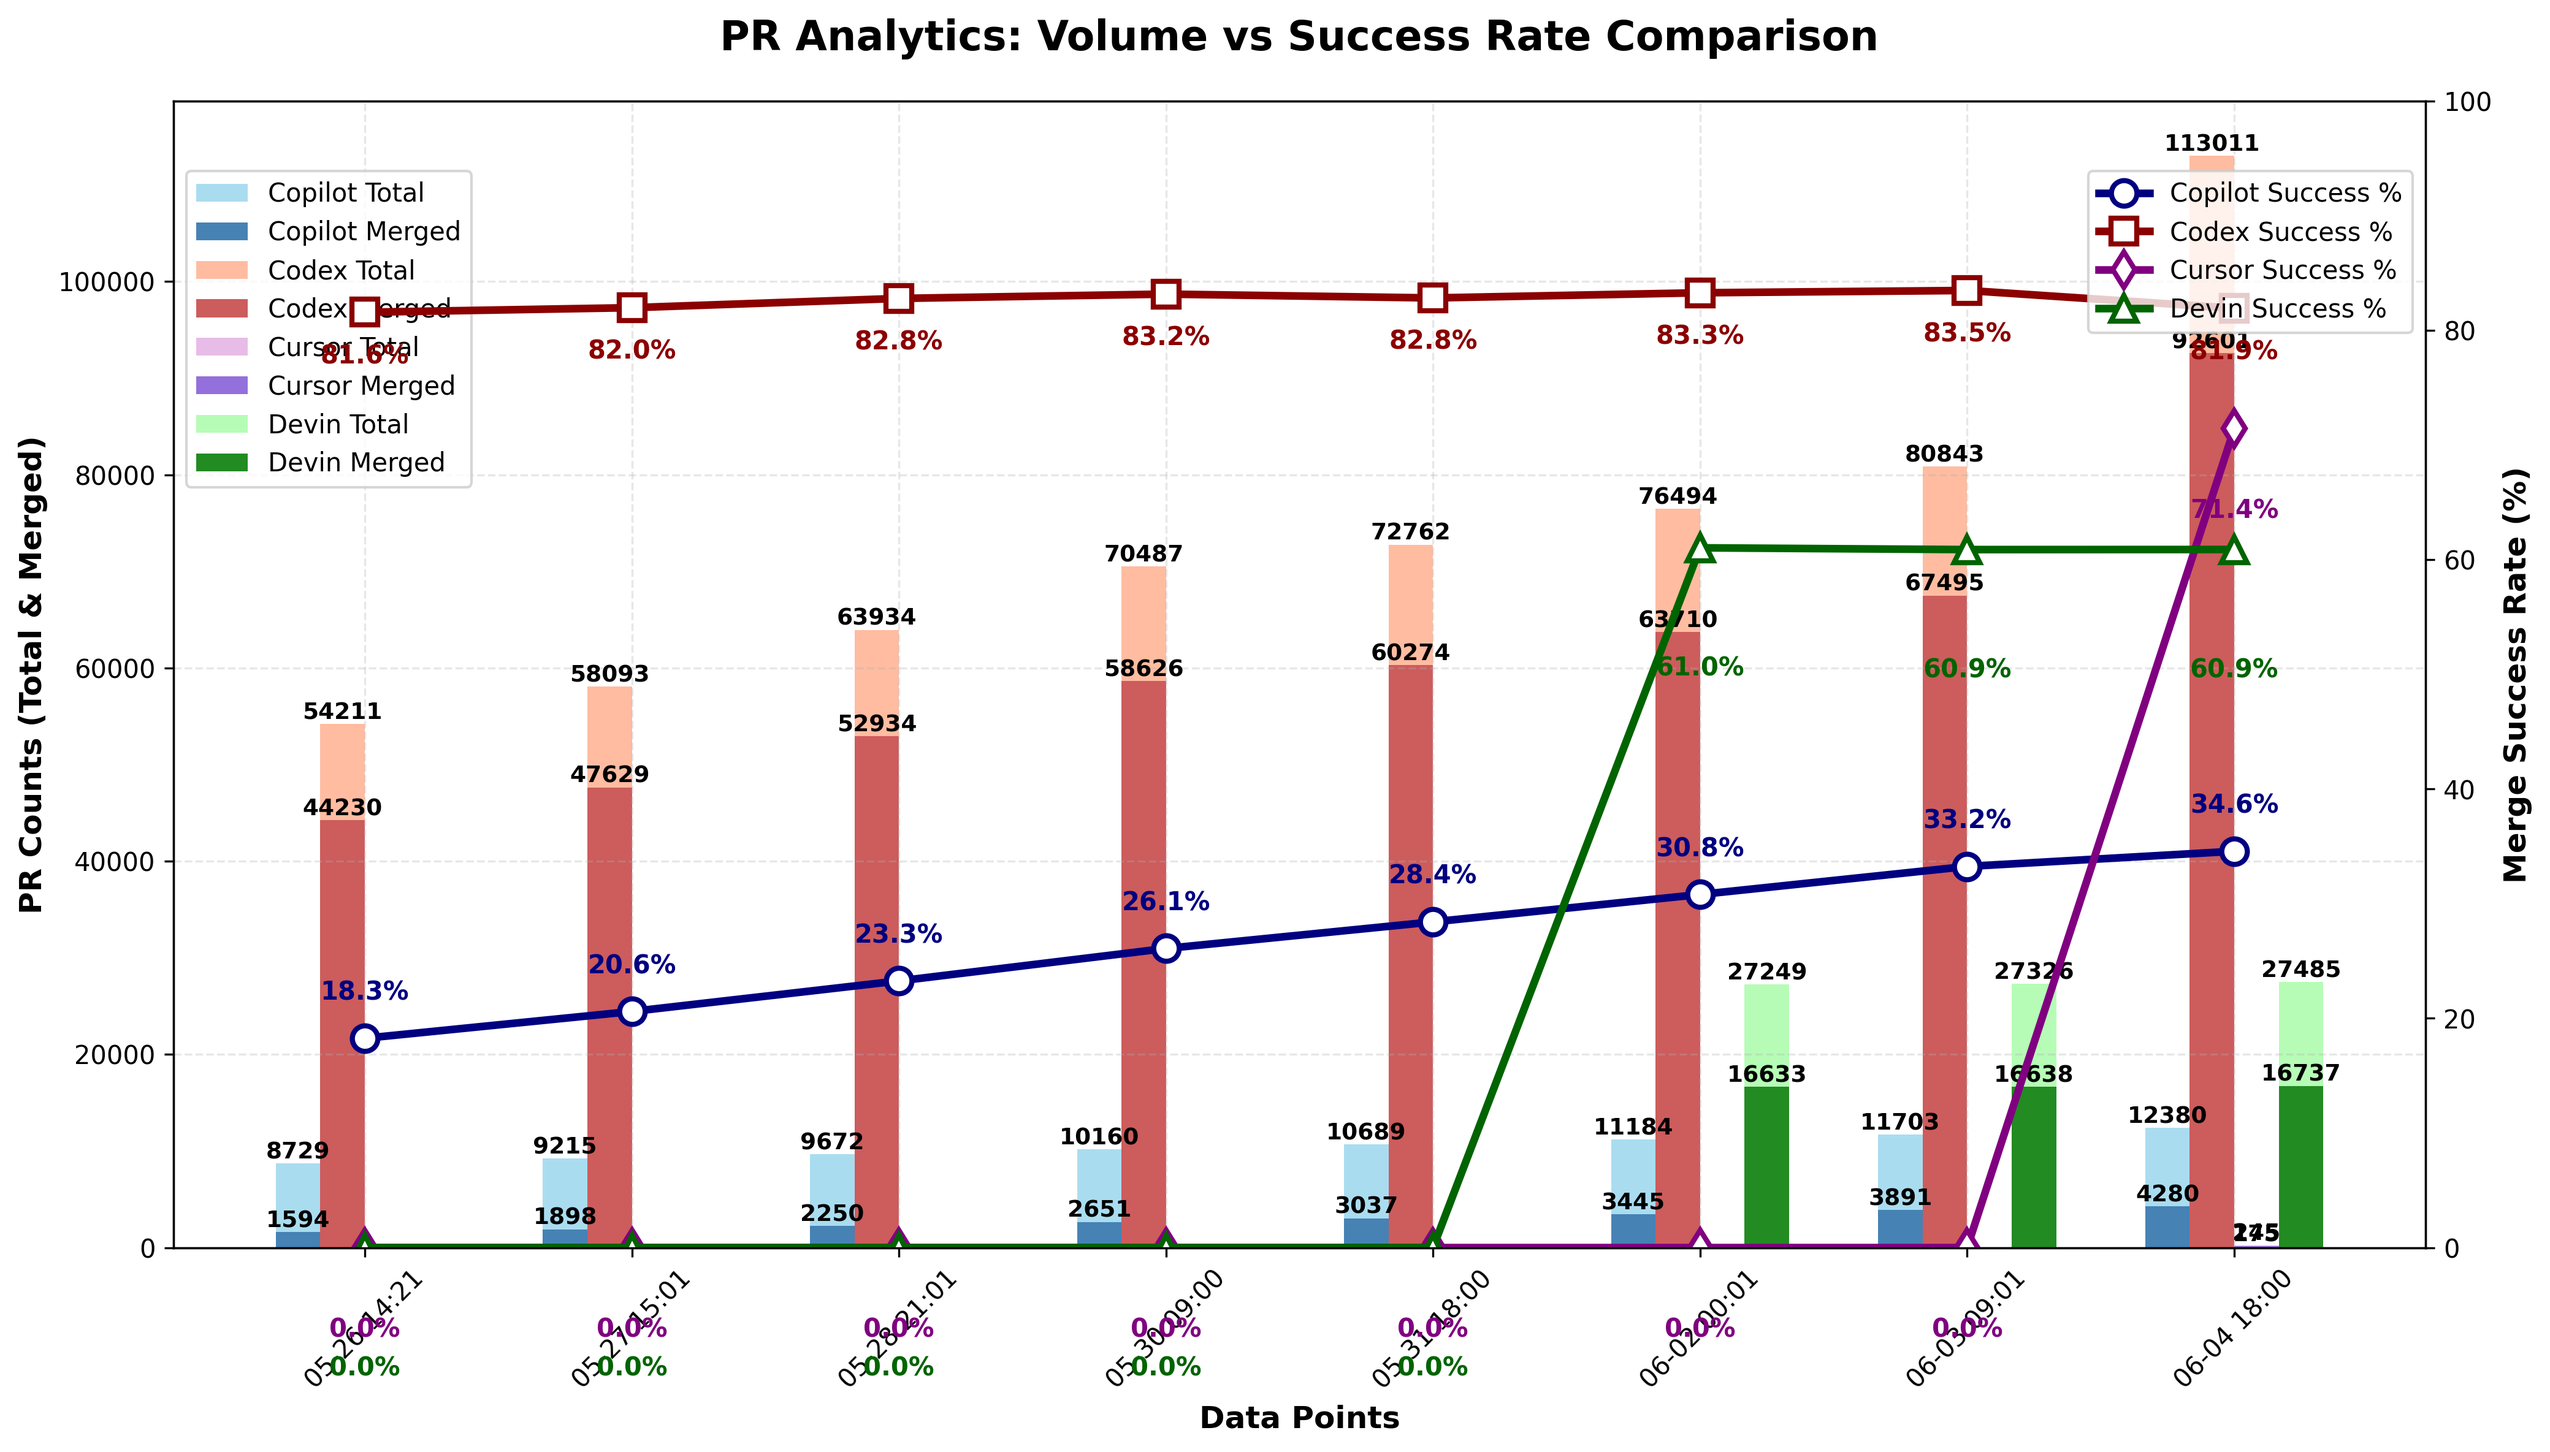
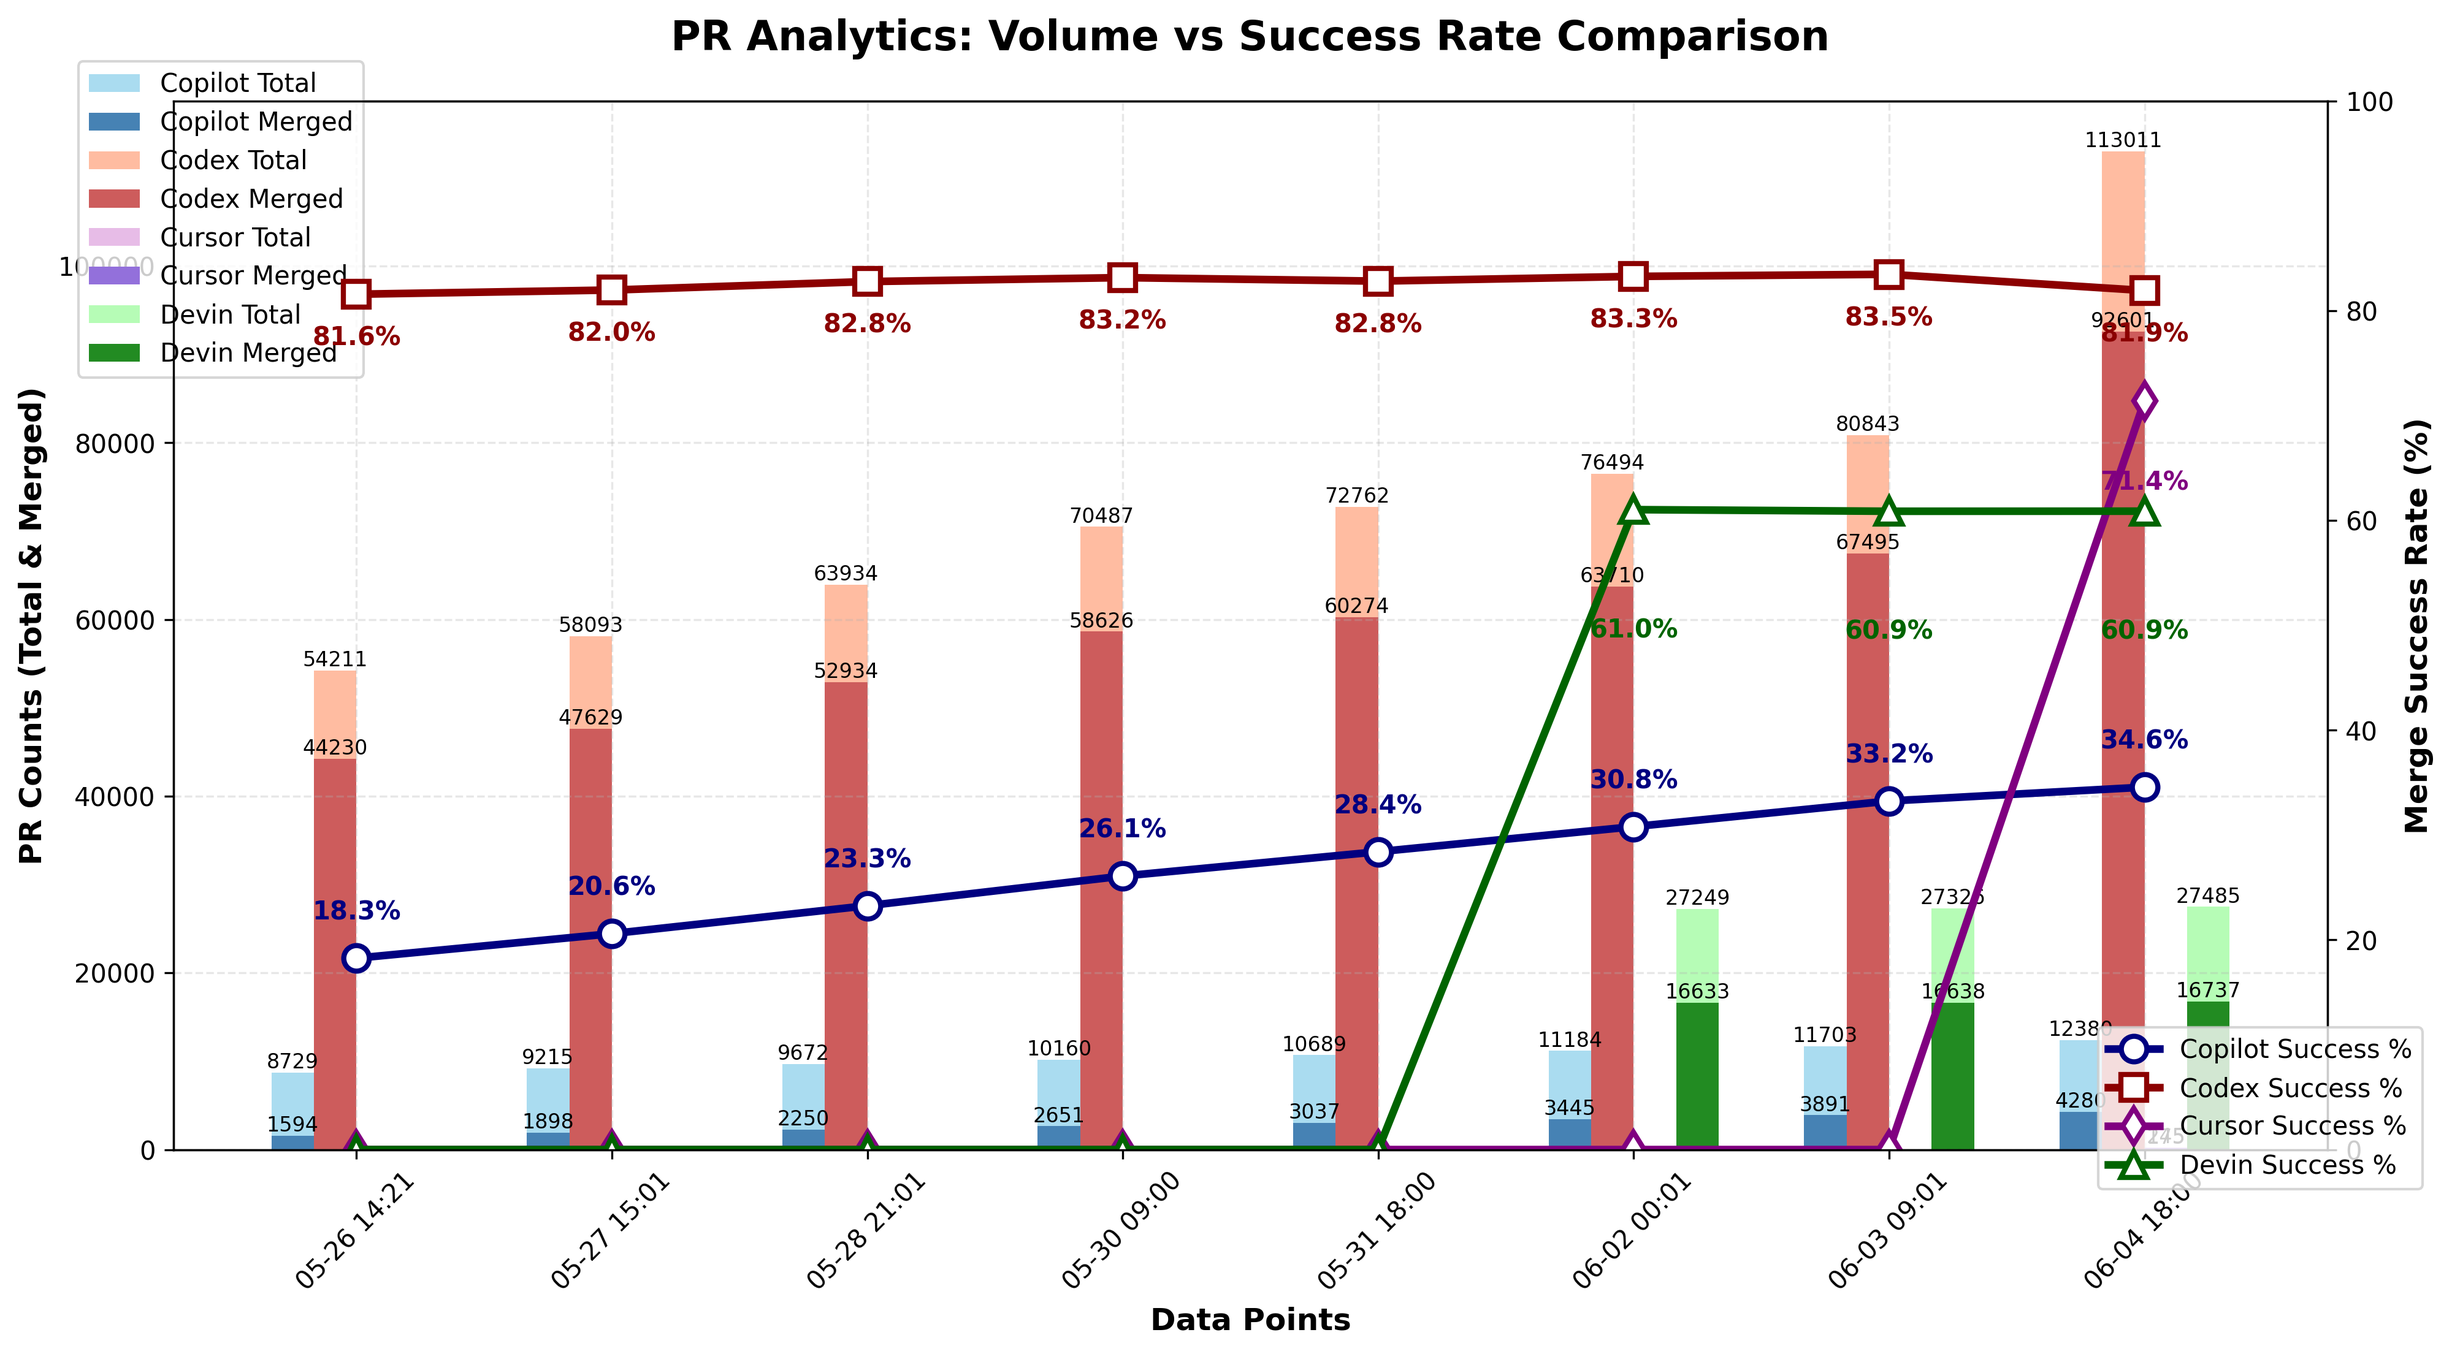
Implement chart improvements: move legends, skip 0.0% labels, adjust text styling

diff --git a/docs/index.html b/docs/index.html
@@ -75,7 +75,7 @@
         </section>
 
         <footer>
-            <p>Last updated: <span id="last-updated">June 04, 2025 18:52 UTC</span></p>
+            <p>Last updated: <span id="last-updated">June 04, 2025 18:54 UTC</span></p>
             <p><a href="https://github.com/aavetis/ai-pr-watcher">View on GitHub</a></p>
         </footer>
     </div>

diff --git a/generate_chart.py b/generate_chart.py
@@ -234,9 +234,9 @@ def generate_chart(csv_file=None):
     ax1.set_xticks(x)
     ax1.set_xticklabels(timestamps, rotation=45)
 
-    # Add legends
-    legend1 = ax1.legend(loc="upper left", bbox_to_anchor=(0, 0.95))
-    legend2 = ax2.legend(loc="upper right", bbox_to_anchor=(1, 0.95))
+    # Add legends - move name labels to top left, success % labels to bottom right
+    legend1 = ax1.legend(loc="upper left", bbox_to_anchor=(-0.05, 1.05))
+    legend2 = ax2.legend(loc="lower right", bbox_to_anchor=(1.05, -0.05))
 
     # Add grid
     ax1.grid(True, alpha=0.3, linestyle="--")
@@ -263,8 +263,9 @@ def generate_chart(csv_file=None):
                     label_text,
                     ha="center",
                     va="bottom",
-                    fontsize=9,
-                    fontweight="bold",
+                    fontsize=8,
+                    fontweight="normal",
+                    color="black",
                 )
 
     add_value_labels(ax1, bars_copilot_total)
@@ -276,54 +277,58 @@ def generate_chart(csv_file=None):
     add_value_labels(ax1, bars_devin_total)
     add_value_labels(ax1, bars_devin_merged)
 
-    # Add percentage labels on line points (with validation)
+    # Add percentage labels on line points (with validation and skip 0.0%)
     for i, (cop_pct, cod_pct, cur_pct, dev_pct) in enumerate(
         zip(df["copilot_percentage"], df["codex_percentage"], df["cursor_percentage"], df["devin_percentage"])
     ):
-        # Only add labels if percentages are valid numbers
+        # Only add labels if percentages are valid numbers and not 0.0%
         if pd.notna(cop_pct) and pd.notna(cod_pct) and pd.notna(cur_pct) and pd.notna(dev_pct):
-            ax2.annotate(
-                f"{cop_pct:.1f}%",
-                (i, cop_pct),
-                textcoords="offset points",
-                xytext=(0, 15),
-                ha="center",
-                fontsize=10,
-                fontweight="bold",
-                color="#000080",
-            )
-            ax2.annotate(
-                f"{cod_pct:.1f}%",
-                (i, cod_pct),
-                textcoords="offset points",
-                xytext=(0, -20),
-                ha="center",
-                fontsize=10,
-                fontweight="bold",
-                color="#8B0000",
-            )
-            ax2.annotate(
-                f"{cur_pct:.1f}%",
-                (i, cur_pct),
-                textcoords="offset points",
-                xytext=(0, -35),
-                ha="center",
-                fontsize=10,
-                fontweight="bold",
-                color="#800080",
-            )
-            ax2.annotate(
-                f"{dev_pct:.1f}%",
-                (i, dev_pct),
-                textcoords="offset points",
-                xytext=(0, -50),
-                ha="center",
-                fontsize=10,
-                fontweight="bold",
-                color="#006400",
-            )
+            if cop_pct > 0.0:
+                ax2.annotate(
+                    f"{cop_pct:.1f}%",
+                    (i, cop_pct),
+                    textcoords="offset points",
+                    xytext=(0, 15),
+                    ha="center",
+                    fontsize=10,
+                    fontweight="bold",
+                    color="#000080",
+                )
+            if cod_pct > 0.0:
+                ax2.annotate(
+                    f"{cod_pct:.1f}%",
+                    (i, cod_pct),
+                    textcoords="offset points",
+                    xytext=(0, -20),
+                    ha="center",
+                    fontsize=10,
+                    fontweight="bold",
+                    color="#8B0000",
+                )
+            if cur_pct > 0.0:
+                ax2.annotate(
+                    f"{cur_pct:.1f}%",
+                    (i, cur_pct),
+                    textcoords="offset points",
+                    xytext=(0, -35),
+                    ha="center",
+                    fontsize=10,
+                    fontweight="bold",
+                    color="#800080",
+                )
+            if dev_pct > 0.0:
+                ax2.annotate(
+                    f"{dev_pct:.1f}%",
+                    (i, dev_pct),
+                    textcoords="offset points",
+                    xytext=(0, -50),
+                    ha="center",
+                    fontsize=10,
+                    fontweight="bold",
+                    color="#006400",
+                )
 
-    plt.tight_layout()
+    plt.tight_layout(pad=3.0)
 
     # Save chart with appropriate DPI for CI environments
     chart_file = Path("chart.png")
